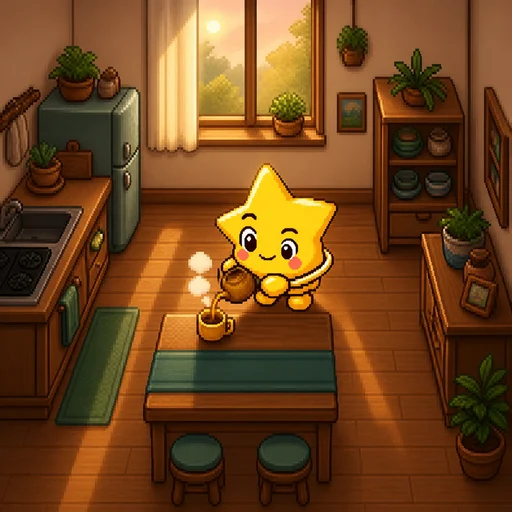
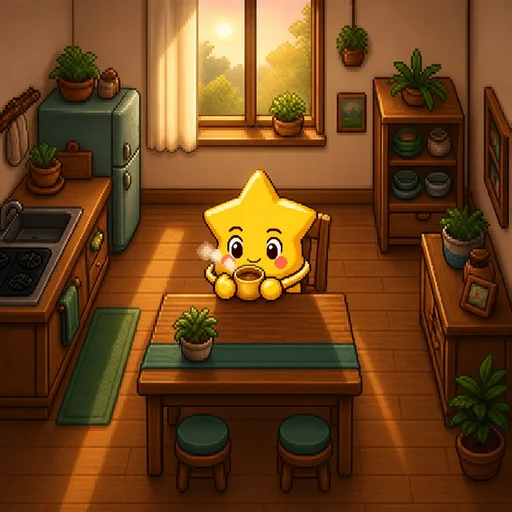
fix: 上向き歩行と朝のお茶演出を整える

diff --git a/src/rendering/room.ts b/src/rendering/room.ts
@@ -60,10 +60,10 @@ const routes: Record<SceneId, readonly Waypoint[]> = {
     { x: 116, y: 244, pauseMs: 550 },
   ],
   morningTea: [
-    { x: 132, y: 202, pauseMs: 4600, action: true },
-    { x: 112, y: 229, pauseMs: 700 },
-    { x: 83, y: 205, pauseMs: 650 },
-    { x: 108, y: 174, pauseMs: 800 },
+    { x: 68, y: 272, pauseMs: 6800, action: true },
+    { x: 91, y: 220, pauseMs: 650 },
+    { x: 126, y: 202, pauseMs: 900 },
+    { x: 82, y: 252, pauseMs: 650 },
   ],
   foundOldToy: [
     { x: 98, y: 224, pauseMs: 3000, action: true },
@@ -206,12 +206,14 @@ function createGridFrames(
   columns: number,
   rows: number,
   bottomTrimByRow: readonly number[] = [],
+  topBleedByRow: readonly number[] = [],
 ): Texture[][] {
   sheet.source.scaleMode = "nearest";
   return Array.from({ length: rows }, (_, row) =>
     Array.from({ length: columns }, (_, column) => {
       const left = Math.round((column * sheet.width) / columns);
-      const top = Math.round((row * sheet.height) / rows);
+      const baseTop = Math.round((row * sheet.height) / rows);
+      const top = baseTop - (topBleedByRow[row] ?? 0);
       const right = Math.round(((column + 1) * sheet.width) / columns);
       const fullBottom = Math.round(((row + 1) * sheet.height) / rows);
       const bottomTrim = bottomTrimByRow[row] ?? 0;
@@ -228,7 +230,7 @@ function createGridFrames(
 }
 
 function createDirectionFrames(sheet: Texture): Record<Direction, Texture[]> {
-  const grid = createGridFrames(sheet, 3, 4, [0, 2, 17, 0]);
+  const grid = createGridFrames(sheet, 3, 4, [0, 2, 17, 0], [0, 0, 0, 17]);
   return Object.fromEntries(
     Object.entries(directionRows).map(([direction, row]) => [direction, grid[row] ?? []]),
   ) as Record<Direction, Texture[]>;

diff --git a/src/content/scenes.ts b/src/content/scenes.ts
@@ -101,9 +101,9 @@ export const SCENES: readonly SceneDefinition[] = [
     id: "morningTea",
     band: "earlyMorning",
     title: "朝いちばんのお茶",
-    description: "まだ静かな台所で、湯気の立つお茶をていねいに淹れている。",
-    lines: ["朝のお茶は、湯気までおいしい気がするキチ。", "少し冷めるまで、いい匂いを楽しもうっと。"],
-    details: ["お気に入りの黄色いカップを選んでいる", "窓から差す光が湯気を照らしている"],
+    description: "朝の静かなテーブルに座り、湯気の立つお茶を黙々と飲んでいる。",
+    lines: ["ふう……。", "……あったかいキチ。"],
+    details: ["お気に入りの黄色いカップを両手で包んでいる", "窓から差す光が湯気を照らしている"],
     characterPose: "busy",
     accent: "#e8a45a",
   },

diff --git a/docs/prototype-spec.md b/docs/prototype-spec.md
@@ -15,7 +15,7 @@
 | ID | 時刻 | 生活シーン |
 |---|---|---|
 | `deepNight` | 0:00以上5:00未満 | 布団で眠る<br>布団を蹴飛ばして眠る<br>窓辺で星を数える |
-| `earlyMorning` | 5:00以上8:00未満 | 朝食を作りすぎる<br>寝坊して支度する<br>朝いちばんのお茶を淹れる |
+| `earlyMorning` | 5:00以上8:00未満 | 朝食を作りすぎる<br>寝坊して支度する<br>朝いちばんのお茶を飲む |
 | `daytime` | 8:00以上17:00未満 | 掃除中におもちゃを見つける<br>窓辺で昼寝する<br>植物へ水やりする |
 | `evening` | 17:00以上20:00未満 | 泥だらけで帰宅する<br>夕食を煮込む<br>洗濯物をたたむ |
 | `night` | 20:00以上24:00未満 | 明日の持ち物を準備する<br>小さな夜食を楽しむ<br>漫画の続きを読む |
